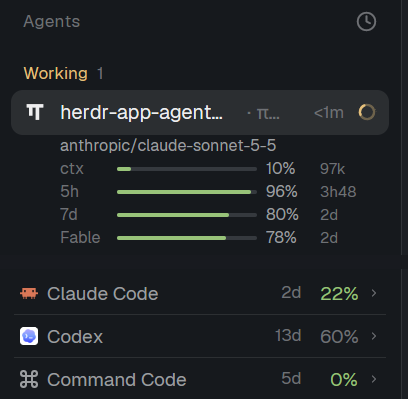
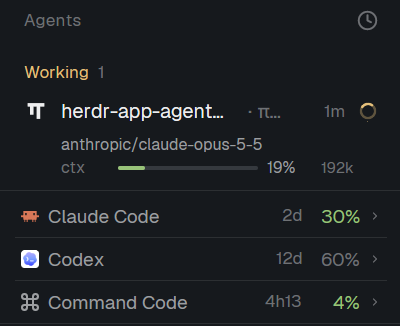
Show only model and context under agents with a known model
- Limits (5h, 7d, Fable, Cr) stay in the footer and status bar; they are no longer repeated
  under each agent whose model is known.
- Still shown under the row where nothing else shows them: agents with no known model (Codex)
  and agents on another machine (that machine's own logins).
- Update README, RECIPE and preview.png.

diff --git a/mods/agents-quota/quota.js b/mods/agents-quota/quota.js
@@ -309,7 +309,7 @@ export function agentQuota(q, agent) {
     if (!model && !card && !context) return null;
     let note = null;
     if (!card) note = machine && provider ? `quota not read on ${machine}` : "no subscription quota";
-    return { model, card, note, context };
+    return { model, card, note, context, remote: Boolean(machine) };
   }
   if (machine) return null;
   const raw = agent.program?.key ?? agent.app;
@@ -389,7 +389,10 @@ export function quotaBlock(t, info, used) {
   const rows = [];
   if (info.model !== null || info.note) rows.push(modelLine(t, info.model, info.note));
   if (info.context) rows.push(contextLine(t, info.context));
-  const card = info.card;
+  // Limits under an agent only where nothing else shows them: an agent whose model isn't known (Codex, by
+  // its program), or one on another machine (its machine's own logins; the footer and status bar are
+  // this computer's). Otherwise the row keeps to model and context.
+  const card = info.model === null || info.remote ? info.card : null;
   if (card) {
     const stale = card.fetched !== null && now - card.fetched > STALE_S;
     const show = (w) => (used ? w.used : w.remaining);

diff --git a/RECIPE.md b/RECIPE.md
@@ -1,9 +1,9 @@
 # Agent quota
 
-The Agents list in the Herdr desktop app, with each agent's **active model** and, if that model has a
-subscription, its **quota gauges** right under the agent's row. A Claude Code agent on `claude-sonnet-5-5`
-shows 5h, 7d and Fable weekly limits; an omp agent on `lm-studio/glm-5.3` shows only the model and
-`no subscription quota`.
+The Agents list in the Herdr desktop app, with each agent's **active model** and **context use** right under
+the agent's row, and the subscriptions' limits in a pinned footer (and optionally the status bar). A Claude
+Code agent on `claude-sonnet-5-5` shows its model and `ctx`; an omp agent on `lm-studio/glm-5.3` shows its
+model, `ctx` and `no subscription quota`.
 
 ![Agent quota](preview.png)
 
@@ -20,10 +20,11 @@ The shipped Agents panel (header "Agents", sort button, groups such as Working /
    a gauge filled to the context window **used** (always used, not remaining, like the agents' own
    footers), percent, and a tail with the token count (`353k`, `1.2M`). Red past 85% used, yellow past
    60%. When only a token count is known (no window), the line reads `<n> tokens` in `muted`.
-3. **One gauge line per limit**, only for subscription models: a 32px label (`5h`, `7d`, `Fable`, `30d`,
-   `Cr`) in 10.5px `dim`; a 3px-tall rounded track (`raised`) filled to the shown percent; a 30px percent
-   in 10.5px `muted`; a 38px tail in 10px `dim` (time to reset like `1h08`, `2d`; for `Cr` the dollars
-   left like `$10.00`).
+3. **One gauge line per limit**, only when the agent's model is NOT known but its program has a
+   subscription (Codex): a 32px label (`5h`, `7d`, `Fable`, `30d`, `Cr`) in 10.5px `dim`; a 3px-tall
+   rounded track (`raised`) filled to the shown percent; a 30px percent in 10.5px `muted`; a 38px tail in
+   10px `dim` (time to reset like `1h08`, `2d`; for `Cr` the dollars left like `$10.00`). An agent with a
+   known model never shows limit lines: the footer and status bar already show them.
 4. Nothing at all when the model isn't known yet or the agent has no folder under the home folder.
 5. **Pinned footer**, below the agent list and above the sidebar footer, hidden in the narrow rail: a 1px
    `border` top line, 16px side padding, 6px vertical, 2px between lines. One 16px line per subscription
@@ -164,18 +165,21 @@ elsewhere; `fs/promises` `readdir`/`readFile` of transcripts and of
 ## Done when
 
 - `herdr-app check mods/agents-quota` passes.
-- A Claude Code agent on a `claude-*` model shows its id, then `5h`, `7d`, `Fable` lines whose percents
-  equal `100 - used` from `omp usage --json` (`anthropic:5h`, `anthropic:7d`, `anthropic:7d:fable`).
+- A Claude Code agent on a `claude-*` model shows its id and `ctx`, and no limit lines; the footer's Claude
+  Code row shows `5h`, `7d`, `Fable` whose percents match `omp usage --json` (`anthropic:5h`, `anthropic:7d`,
+  `anthropic:7d:fable`).
 - The same agent on a `glm-*` / `kimi-*` model shows the model and `· no subscription quota`, no gauges.
-- An omp agent on `lm-studio/glm-5.3` shows the same note; on `commandcode/...` it shows `5h`, `7d` and
-  `Cr` with dollars left.
+- An omp agent on `lm-studio/glm-5.3` shows the same note; on `commandcode/...` it shows the model and `ctx`
+  only.
 - With two agents of one kind in one folder (two transcripts, different models), each row shows its own
   model and context, and swapping which transcript was written closest to which agent swaps the rows.
 - An omp agent's `ctx` percent matches its own pane footer within about 0.5% (for example `35%` vs
   `35.3%/1M`), and the token count is the last request's `contextSnapshot.promptTokens`.
 - A `commandcode` agent (with the hook) shows its model as in its transcript (`recursive/flint-v1.0:free`),
   then `ctx` with the last `usage.inputTokens` over the catalog window (25,519 / 262,144 -> `10%  26k`),
-  then `5h`, `7d`, `Cr`.
+  and no limit lines.
+- A Codex agent (model not read) still shows the Codex limit lines under its row; an agent on another
+  machine still shows its machine's limits (nothing else shows them).
 - Collapsing the sidebar to the rail hides all quota lines; expanding brings them back.
 - With no agent running, the pinned footer still shows the Claude Code and Codex lines from live /
   cached data, and hovering a line shows the reset times.

diff --git a/README.md b/README.md
@@ -1,20 +1,22 @@
 # herdr-app-agent-quota
 
 A [Herdr desktop app](https://github.com/herdrdev/herdr-app) **mod** that shows each agent's active
-model and, when that model has a subscription, its quota (5h / 7d / Fable weekly / credits) directly
-under the agent in the Agents list.
+model and context use directly under the agent in the Agents list, and your subscriptions' quota
+(5h / 7d / Fable weekly / credits) in a pinned footer and, optionally, the status bar.
 
-![Agents with their model and quota, and the pinned subscriptions footer](preview.png)
+![Agents with their model and context, and the pinned subscriptions footer](preview.png)
 
-*An agent on a subscription model with its context gauge and limits (`ctx`, `5h`, `7d`, `Fable`), and the
-subscriptions footer below it. The empty space between them is cropped.*
+*An agent with its model and context gauge (`ctx`), and the subscriptions footer below it. The empty space
+between them is cropped.*
 
-- **Follows the active model.** A Claude Code or omp agent running a subscription model shows live
-  limits. The same agent on an API or gateway model (a cluster, LM Studio, `glm-*`, `kimi-*`, ...) shows
-  the model name and `no subscription quota`, because Anthropic's limits don't apply to it.
+- **Follows the active model.** Under a Claude Code, omp or Command Code agent: its model and how full its
+  context is. An agent on an API or gateway model (a cluster, LM Studio, `glm-*`, `kimi-*`, ...) also says
+  `no subscription quota`, because no subscription's limits apply to it. The limits themselves live in
+  the footer and status bar, not under each agent; only an agent whose model isn't known (Codex, by its
+  program) still shows its subscription's limits under its row.
 - **Live numbers** come from [`omp usage --json`](https://github.com/can1357/oh-my-pi): Anthropic 5h, 7d
   and the separate 7d **Fable** limit, and Command Code 5h, 7d and credit balance.
-- Gauges turn red under 15% left and yellow under 40%; a window whose reset has passed shows `n/a`.
+- Limit gauges turn red under 15% left and yellow under 40%; a window whose reset has passed shows `n/a`.
 - **Why an agent is blocked:** under a blocked agent's row (including sub-agents) the mod shows what it
   is waiting for, e.g. `Permission · Run: rm -rf build/ ?` or `Question · Which database?`, in the blocked
   colour. It uses the agent's own status report (OSC 7501 `kind` and `msg`), never the screen, so an agent
@@ -45,15 +47,16 @@ subscriptions footer below it. The empty space between them is cropped.*
   from `omp usage --json`; skip for cache-only providers) and one entry to `SUBSCRIPTIONS` in
   `subscriptions.js` (name, icon, which card to use). It then appears in the footer by itself.
 
-| Active model | Shown |
-|---|---|
-| Claude Code, `claude-*` | Anthropic 5h, 7d, Fable (live) |
-| Claude Code, anything else | model name, `no subscription quota` |
-| omp, `anthropic/...` | Anthropic limits (live) |
-| omp, `commandcode/...`; the `commandcode` CLI (Windows, needs the hook below) | Command Code 5h, 7d, credits `Cr` (live) |
-| omp, `openai-codex/...`; Codex | Codex, from the optional plugin cache (see below) |
-| omp, any other provider | model name, `no subscription quota` |
-| model not known yet, or a folder outside your home | nothing |
+| Active model | Under the agent | Counts toward (footer) |
+|---|---|---|
+| Claude Code, `claude-*` | model, `ctx` | Claude Code (Anthropic 5h, 7d, Fable, live) |
+| Claude Code, anything else | model, `ctx`, `no subscription quota` | nothing |
+| omp, `anthropic/...` | model, `ctx` | Claude Code (live) |
+| omp, `commandcode/...`; the `commandcode` CLI (Windows, needs the hook below) | model, `ctx` | Command Code (5h, 7d, credits `Cr`, live) |
+| omp, `openai-codex/...` | model, `ctx` | Codex, from the optional plugin cache (see below) |
+| Codex | Codex limits (its model isn't read) | Codex |
+| omp, any other provider | model, `ctx`, `no subscription quota` | nothing |
+| model not known yet, or a folder outside your home | nothing | |
 
 ## Requirements
 
